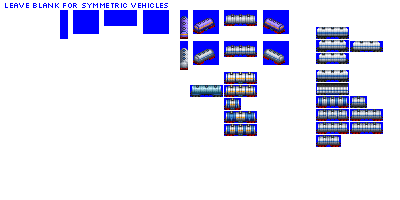
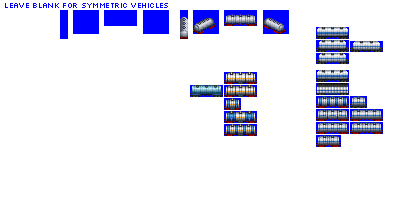
Change: WIP on chemicals tank cars

Changed region(s): [[0.45, 0.06, 0.72, 0.36], [0.66, 0.09, 0.72, 0.15]]

diff --git a/src/vehicles/chemicals_tank_cars.py b/src/vehicles/chemicals_tank_cars.py
@@ -48,7 +48,7 @@ def main():
                              base_numeric_id=3380,
                              gen=4,
                              subtype='A',
-                             sprites_complete=False)
+                             sprites_complete=True)
 
     consist.add_unit(type=FreightCar,
                      chassis='2_axle_sparse_16px')
@@ -58,7 +58,7 @@ def main():
                              base_numeric_id=3390,
                              gen=4,
                              subtype='B',
-                             sprites_complete=False)
+                             sprites_complete=True)
 
     consist.add_unit(type=FreightCar,
                      chassis='4_axle_sparse_24px')
@@ -68,7 +68,7 @@ def main():
                              base_numeric_id=3400,
                              gen=4,
                              subtype='C',
-                             sprites_complete=False)
+                             sprites_complete=True)
 
     consist.add_unit(type=FreightCar,
                      chassis='4_axle_sparse_32px')
